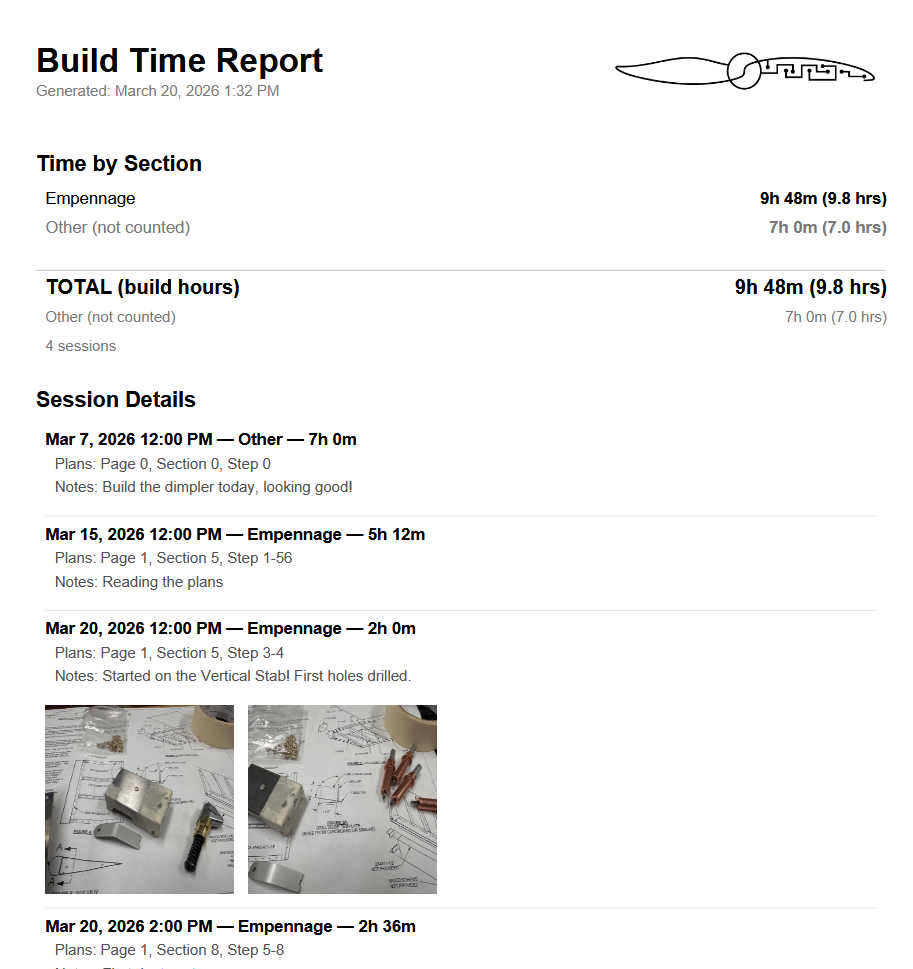
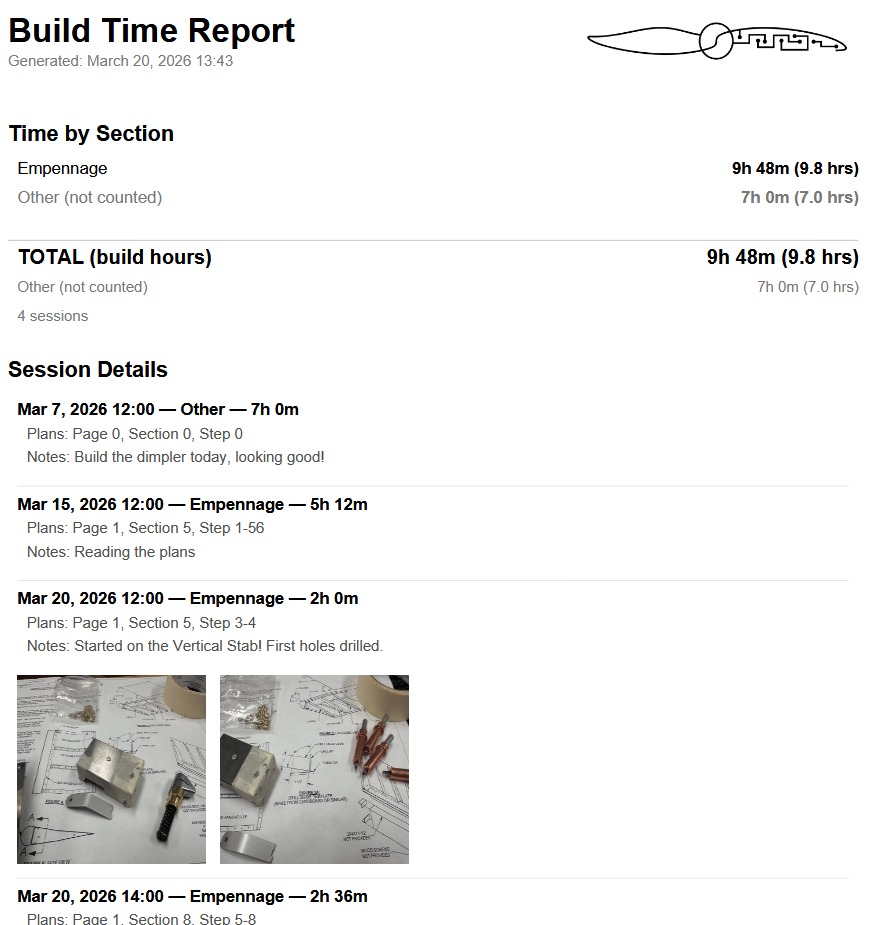
time
Added time formatting option in the setup

diff --git a/src/components/ExportDialog.tsx b/src/components/ExportDialog.tsx
@@ -15,9 +15,13 @@ interface ExportDialogProps {
   sessions: WorkSession[];
   open?: boolean;
   onOpenChange?: (open: boolean) => void;
+  timeFormat?: '24h' | '12h';
 }
 
-export function ExportDialog({ sessions, open: controlledOpen, onOpenChange: controlledOnOpenChange }: ExportDialogProps) {
+export function ExportDialog({ sessions, open: controlledOpen, onOpenChange: controlledOnOpenChange, timeFormat = '24h' }: ExportDialogProps) {
+  const timeFmt = timeFormat === '24h' ? 'HH:mm' : 'h:mm a';
+  const dateTimeFmt = timeFormat === '24h' ? 'MMM d, yyyy HH:mm' : dateTimeFmt;
+  const fullDateTimeFmt = timeFormat === '24h' ? 'MMMM d, yyyy HH:mm' : fullDateTimeFmt;
   const { labels, sections: sectionConfigs } = useSections();
   const [includeReferences, setIncludeReferences] = useState(false);
   const [includeNotes, setIncludeNotes] = useState(false);
@@ -67,7 +71,7 @@ export function ExportDialog({ sessions, open: controlledOpen, onOpenChange: con
   const handleExportTxt = () => {
     const lines: string[] = [];
     lines.push('Build Time Report');
-    lines.push(`Generated: ${format(new Date(), 'MMMM d, yyyy h:mm a')}`);
+    lines.push(`Generated: ${format(new Date(), fullDateTimeFmt)}`);
     lines.push('');
     lines.push('=== Time by Section ===');
     const sorted = Object.entries(bySection).sort((a, b) => b[1] - a[1]);
@@ -100,7 +104,7 @@ export function ExportDialog({ sessions, open: controlledOpen, onOpenChange: con
           lines.push(`=== ${getLabel(sec)} (${formatTime(sectionMinutes)}) ===`);
           for (const s of group) {
             lines.push('');
-            lines.push(`${format(new Date(s.startTime), 'MMM d, yyyy h:mm a')} — ${formatTime(s.durationMinutes)}`);
+            lines.push(`${format(new Date(s.startTime), dateTimeFmt)} — ${formatTime(s.durationMinutes)}`);
             if (includeReferences && s.plansReference) lines.push(`  Plans: ${s.plansReference}`);
             if (includeNotes && s.notes) lines.push(`  Notes: ${s.notes}`);
           }
@@ -110,7 +114,7 @@ export function ExportDialog({ sessions, open: controlledOpen, onOpenChange: con
         lines.push('=== Session Details ===');
         for (const s of sortedSessions) {
           lines.push('');
-          lines.push(`${format(new Date(s.startTime), 'MMM d, yyyy h:mm a')} — ${getLabel(s.section)} — ${formatTime(s.durationMinutes)}`);
+          lines.push(`${format(new Date(s.startTime), dateTimeFmt)} — ${getLabel(s.section)} — ${formatTime(s.durationMinutes)}`);
           if (includeReferences && s.plansReference) lines.push(`  Plans: ${s.plansReference}`);
           if (includeNotes && s.notes) lines.push(`  Notes: ${s.notes}`);
         }
@@ -203,7 +207,7 @@ export function ExportDialog({ sessions, open: controlledOpen, onOpenChange: con
       doc.setFontSize(9);
       doc.setFont('helvetica', 'normal');
       doc.setTextColor(120);
-      doc.text(`Generated: ${format(new Date(), 'MMMM d, yyyy h:mm a')}`, margin, y);
+      doc.text(`Generated: ${format(new Date(), fullDateTimeFmt)}`, margin, y);
       // Push y past logo height if logo is taller than the title block
       y = Math.max(y, margin + logoHeight + 4);
       y += 6;
@@ -265,8 +269,8 @@ export function ExportDialog({ sessions, open: controlledOpen, onOpenChange: con
           doc.setFontSize(10);
           doc.setFont('helvetica', 'bold');
           const label = showSection
-            ? `${format(new Date(s.startTime), 'MMM d, yyyy h:mm a')} — ${getLabel(s.section)} — ${formatTime(s.durationMinutes)}`
-            : `${format(new Date(s.startTime), 'MMM d, yyyy h:mm a')} — ${formatTime(s.durationMinutes)}`;
+            ? `${format(new Date(s.startTime), dateTimeFmt)} — ${getLabel(s.section)} — ${formatTime(s.durationMinutes)}`
+            : `${format(new Date(s.startTime), dateTimeFmt)} — ${formatTime(s.durationMinutes)}`;
           doc.text(label, margin + 2, y);
           y += 5;
 

diff --git a/src/pages/Index.tsx b/src/pages/Index.tsx
@@ -30,6 +30,7 @@ const Index = () => {
   const [targetHours, setTargetHours] = useState(2500);
   const [progressMode, setProgressMode] = useState<'time' | 'packages'>('time');
   const [packageProgressPct, setPackageProgressPct] = useState(0);
+  const [timeFormat, setTimeFormat] = useState<'24h' | '12h'>('24h');
   const [serverStartedAt, setServerStartedAt] = useState<string | null>(null);
   const [pendingImageUrls, setPendingImageUrls] = useState<string[]>([]);
 
@@ -52,6 +53,7 @@ const Index = () => {
     fetchGeneralSettings().then(s => {
       setProjectName(s.projectName);
       setTargetHours(s.targetHours || 2500);
+      setTimeFormat(s.timeFormat || '24h');
     }).catch(() => {});
     fetchBuildStats().then(s => {
       setProgressMode(s.progressMode || 'time');
@@ -217,6 +219,7 @@ const Index = () => {
             setProgressMode(s.progressMode || 'time');
             setPackageProgressPct(s.progressPct);
           }).catch(() => {});
+          fetchGeneralSettings().then(s => setTimeFormat(s.timeFormat || '24h')).catch(() => {});
         }}
       />
       <ManualEntryDialog
@@ -228,6 +231,7 @@ const Index = () => {
         sessions={sessions}
         open={openDialog === 'export'}
         onOpenChange={o => setOpenDialog(o ? 'export' : null)}
+        timeFormat={timeFormat}
       />
 
       <main className="container max-w-4xl py-6 space-y-6">
@@ -274,7 +278,7 @@ const Index = () => {
             <Dashboard sessions={sessions} targetHours={targetHours} progressMode={progressMode} packageProgressPct={packageProgressPct} />
           </TabsContent>
           <TabsContent value="history" className="mt-4">
-            <SessionHistory sessions={sessions} onDelete={handleDelete} onUpdate={handleUpdate} readOnly={demoMode} />
+            <SessionHistory sessions={sessions} onDelete={handleDelete} onUpdate={handleUpdate} readOnly={demoMode} timeFormat={timeFormat} />
           </TabsContent>
         </Tabs>
       </main>

diff --git a/src/pages/BlogPage.tsx b/src/pages/BlogPage.tsx
@@ -1,6 +1,6 @@
 import { useState, useEffect, useCallback } from 'react';
 import { Link } from 'react-router-dom';
-import { Wrench, PenSquare, Menu, X, Timer, LogIn } from 'lucide-react';
+import { Wrench, PenSquare, Menu, X, Timer, LogIn, Eye } from 'lucide-react';
 import { Button } from '@/components/ui/button';
 import { DropdownMenu, DropdownMenuContent, DropdownMenuItem, DropdownMenuSeparator, DropdownMenuTrigger } from '@/components/ui/dropdown-menu';
 import { BlogSidebar } from '@/components/blog/BlogSidebar';
@@ -24,7 +24,7 @@ export default function BlogPage() {
   const [projectName, setProjectName] = useState('Build Tracker');
   const [sidebarOpen, setSidebarOpen] = useState(false);
   const [stats, setStats] = useState<BuildStats | null>(null);
-  const { isAuthenticated } = useAuth();
+  const { isAuthenticated, demoMode } = useAuth();
 
   const loadPosts = useCallback(async () => {
     try {
@@ -82,6 +82,12 @@ export default function BlogPage() {
 
   return (
     <div className="min-h-screen bg-background">
+      {demoMode && (
+        <div className="bg-amber-500/15 border-b border-amber-500/30 px-4 py-2 flex items-center justify-center gap-2 text-sm text-amber-600 dark:text-amber-400">
+          <Eye className="w-4 h-4 shrink-0" />
+          <span>Demo mode — read only. No data can be created or changed.</span>
+        </div>
+      )}
       <header className="border-b border-border bg-card/50 sticky top-0 z-30">
         <div className="container max-w-6xl py-4 flex items-center gap-3">
           <Link to="/" className="w-10 h-10 rounded-lg bg-primary/15 flex items-center justify-center glow-amber shrink-0">

diff --git a/src/components/SessionHistory.tsx b/src/components/SessionHistory.tsx
@@ -14,6 +14,7 @@ interface SessionHistoryProps {
   onDelete: (id: string) => void;
   onUpdate: (id: string, updates: Partial<WorkSession>) => void;
   readOnly?: boolean;
+  timeFormat?: '24h' | '12h';
 }
 
 function parsePlansRef(ref?: string) {
@@ -38,7 +39,8 @@ function toDatetimeLocal(iso: string): string {
   return `${d.getFullYear()}-${pad(d.getMonth() + 1)}-${pad(d.getDate())}T${pad(d.getHours())}:${pad(d.getMinutes())}`;
 }
 
-export function SessionHistory({ sessions, onDelete, onUpdate, readOnly }: SessionHistoryProps) {
+export function SessionHistory({ sessions, onDelete, onUpdate, readOnly, timeFormat = '24h' }: SessionHistoryProps) {
+  const timeFmt = timeFormat === '24h' ? 'HH:mm' : 'h:mm a';
   const { labels, icons, sections } = useSections();
   const [editingId, setEditingId] = useState<string | null>(null);
   const [editSection, setEditSection] = useState('');
@@ -229,7 +231,7 @@ export function SessionHistory({ sessions, onDelete, onUpdate, readOnly }: Sessi
                           <p className="text-sm text-muted-foreground">{session.notes}</p>
                         )}
                         <p className="text-xs text-muted-foreground/50 mt-2">
-                          {format(new Date(session.startTime), 'h:mm a')} – {format(new Date(session.endTime), 'h:mm a')}
+                          {format(new Date(session.startTime), timeFmt)} – {format(new Date(session.endTime), timeFmt)}
                         </p>
                         {/* Show images read-only when not editing */}
                         <SessionImages

diff --git a/src/components/SettingsDialog.tsx b/src/components/SettingsDialog.tsx
@@ -249,6 +249,32 @@ export function SettingsDialog({ onProjectNameChange, onTargetHoursChange, onSet
 
           <Separator />
 
+          {/* Time Format */}
+          <div className="space-y-3">
+            <div className="flex items-center gap-2">
+              <Clock className="w-4 h-4 text-muted-foreground" />
+              <Label className="text-sm font-medium">Time Format</Label>
+            </div>
+            <div className="pl-6 border-l-2 border-border flex gap-2">
+              {([
+                { value: '24h' as const, label: '24h', example: '14:00' },
+                { value: '12h' as const, label: '12h', example: '2:00 PM' },
+              ]).map(({ value, label, example }) => (
+                <Button
+                  key={value}
+                  variant={(general.timeFormat || '24h') === value ? 'default' : 'outline'}
+                  size="sm"
+                  onClick={() => setGeneral({ ...general, timeFormat: value })}
+                  className="gap-1.5 flex-1"
+                >
+                  {label} <span className="text-xs opacity-60">({example})</span>
+                </Button>
+              ))}
+            </div>
+          </div>
+
+          <Separator />
+
           {/* Assembly Sections */}
           <div className="space-y-3">
             <div className="flex items-center justify-between">

diff --git a/server/index.js b/server/index.js
@@ -59,7 +59,7 @@ if (DEMO_MODE) console.log('[demo] Demo mode enabled — all write operations ar
 const UPLOADS_DIR = path.join(path.dirname(DB_PATH), 'uploads', 'sessions');
 
 // Default general settings — single source of truth used as fallback in all getSetting('general') calls
-const DEFAULT_GENERAL = { projectName: 'Build Tracker', targetHours: 2500, progressMode: 'time', imageResizing: true, imageMaxWidth: 1920 };
+const DEFAULT_GENERAL = { projectName: 'Build Tracker', targetHours: 2500, progressMode: 'time', imageResizing: true, imageMaxWidth: 1920, timeFormat: '24h' };
 
 // ─── Default sections configuration ─────────────────────────────────
 const DEFAULT_SECTIONS = [

diff --git a/src/lib/api.ts b/src/lib/api.ts
@@ -83,6 +83,7 @@ export interface GeneralSettings {
   progressMode?: 'time' | 'packages';
   imageResizing?: boolean;
   imageMaxWidth?: number;
+  timeFormat?: '24h' | '12h';
 }
 
 export async function fetchGeneralSettings(): Promise<GeneralSettings> {
